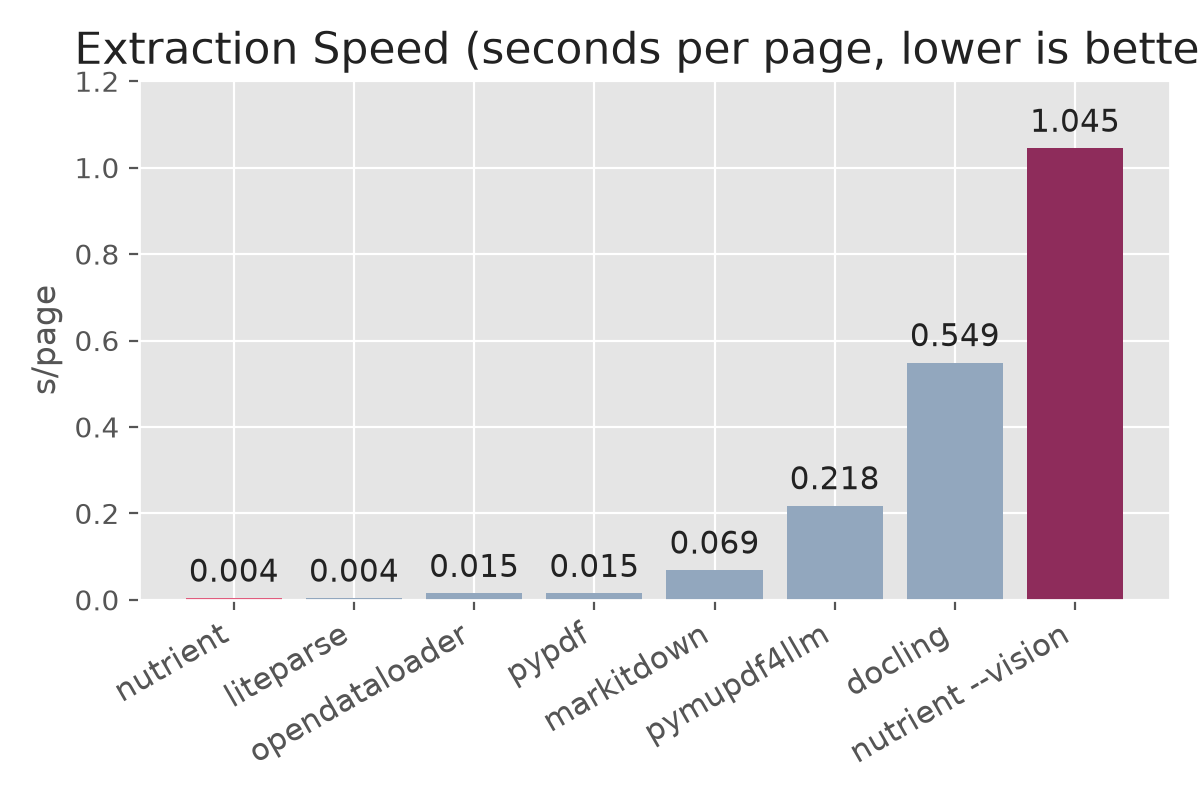
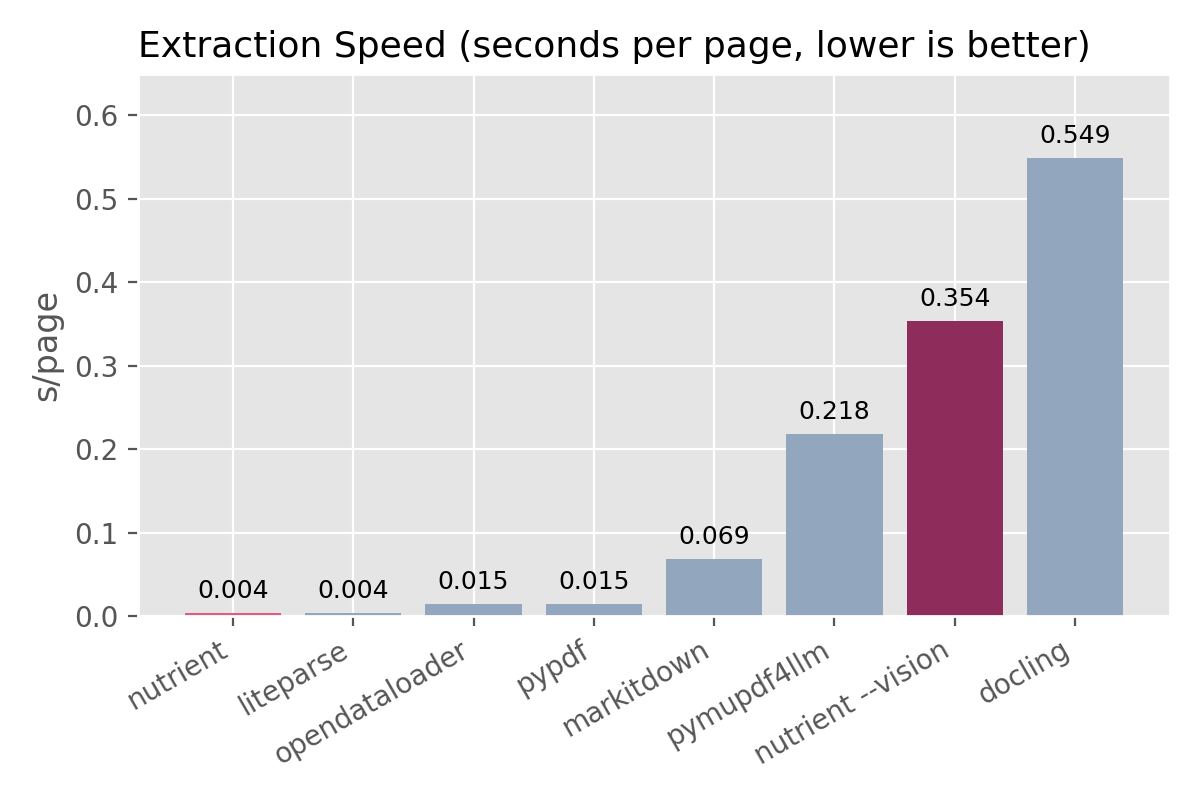
docs: vision benchmarks re-run on nutrient 1.3.1 — 0.354 s/page, now faster than docling
The 1.3.1 CDN build (race-condition fix + speed work) cut the vision
arm from 1.045 to 0.354 s/page in the same harness on the same M3 Ultra,
with accuracy identical to four decimals. Updated the speed tables,
vision-tier prose, intro bullet, and the extraction-speed chart; noted
the batch-mode control (0.356 s/page — spawn overhead negligible).

Claude-Session: https://claude.ai/code/session_01LiZXkeEUvAs3kENZwXL1bP

diff --git a/README.md b/README.md
@@ -16,7 +16,7 @@ Fast, accurate Markdown from PDFs — locally, with no cleanup required. Built f
 
 - **How fast is it?** — 0.004s per page. 134x faster than docling, 53x faster than pymupdf4llm. ([benchmarks](#benchmarks))
 - **How accurate is it?** — 0.93 reading order (best in class), 0.89 overall extraction accuracy, 0.82 heading detection. ([benchmarks](#benchmarks))
-- **NEW: `--vision` tier** — a licensed machine-vision ICR pipeline that tops every accuracy metric, including tables (0.94 TEDS), and handles scanned and handwritten documents. ([benchmarks](#benchmarks))
+- **NEW: `--vision` tier** — a licensed machine-vision ICR pipeline that tops every accuracy metric, including tables (0.94 TEDS), handles scanned and handwritten documents — and still runs faster than docling (0.35s per page). ([benchmarks](#benchmarks))
 - **Three tools, one binary** — `pdf-to-markdown` for structured Markdown, `pdf-to-text` for layout-preserving plain text, and `query` for ranked search over an extracted file. Pick by what the downstream consumer needs. ([the Nutrient document CLI](#the-nutrient-document-cli))
 - **NEW: Image export** — `--enable-image-export` extracts images alongside Markdown for vision-capable LLMs. ([usage](#image-export))
 - **Where do my PDFs go?** — Nowhere. The CLI runs locally. Your documents are not uploaded to Nutrient. ([trust & licensing](#trust-and-licensing))
@@ -194,7 +194,7 @@ Benchmark results from 200 PDF documents with hand-annotated Markdown ground tru
 
 ![Heading level](https://raw.githubusercontent.com/PSPDFKit/pdf-to-markdown/main/docs/assets/heading-level.png?v=20260706)
 
-![Extraction speed](https://raw.githubusercontent.com/PSPDFKit/pdf-to-markdown/main/docs/assets/extraction-speed.png?v=20260706)
+![Extraction speed](https://raw.githubusercontent.com/PSPDFKit/pdf-to-markdown/main/docs/assets/extraction-speed.png?v=20260707)
 
 ![Faster with Nutrient](https://raw.githubusercontent.com/PSPDFKit/pdf-to-markdown/main/docs/assets/faster-with-nutrient.png?v=20260706)
 
@@ -202,7 +202,7 @@ Benchmark results from 200 PDF documents with hand-annotated Markdown ground tru
 
 | Solution | Version | Overall | Reading Order (NID) | Table Structure (TEDS) | Heading Level (MHS) |
 | --- | --- | ---: | ---: | ---: | ---: |
-| **Nutrient `--vision`** † | 1.3.0 | **0.93** | **0.96** | **0.94** | **0.87** |
+| **Nutrient `--vision`** † | 1.3.1 | **0.93** | **0.96** | **0.94** | **0.87** |
 | **Nutrient** | 1.3.0 | 0.89 | 0.93 | 0.74 | 0.82 |
 | docling | 2.110.0 | 0.89 | 0.91 | 0.93 | 0.83 |
 | pymupdf4llm | 1.28.0 | 0.86 | 0.90 | 0.73 | 0.78 |
@@ -211,7 +211,7 @@ Benchmark results from 200 PDF documents with hand-annotated Markdown ground tru
 | pypdf | 6.14.2 | 0.58 | 0.87 | 0.00 | 0.00 |
 | liteparse | 2.4.1 | 0.57 | 0.86 | 0.00 | 0.00 |
 
-Among the default (non-vision) engines: Nutrient has the best reading order; docling 2.110 has the best table structure and a hair's-width overall edge at the third decimal (0.892 vs 0.889) — at 134× the runtime. The `--vision` tier tops every metric outright, including tables. The `opendataloader-hybrid` variant was not re-run (it requires a separate docling backend service); its last published numbers were 0.87 overall.
+Among the default (non-vision) engines: Nutrient has the best reading order; docling 2.110 has the best table structure and a hair's-width overall edge at the third decimal (0.892 vs 0.889) — at 134× the runtime. The `--vision` tier tops every metric outright, including tables — while running faster than docling. The `opendataloader-hybrid` variant was not re-run (it requires a separate docling backend service); its last published numbers were 0.87 overall.
 
 ### Speed
 
@@ -223,8 +223,8 @@ Among the default (non-vision) engines: Nutrient has the best reading order; doc
 | pypdf | 0.015 |
 | markitdown | 0.069 |
 | pymupdf4llm | 0.218 |
+| Nutrient `--vision` † | 0.354 |
 | docling | 0.549 |
-| Nutrient `--vision` † | 1.045 |
 
 Nutrient and liteparse run batch-parallel; the other engines process sequentially in-process. Nutrient is the fastest structure-preserving parser by a wide margin — only liteparse (which preserves no table/heading structure) matches its throughput.
 
@@ -238,7 +238,7 @@ Nutrient and liteparse run batch-parallel; the other engines process sequentiall
 
 ### The `--vision` tier
 
-† Nutrient 1.3.0 adds a machine-vision ICR pipeline behind the `--vision` flag: layout analysis, table reconstruction, formulas, and handwriting, running locally with GPU-hybrid inference (`--provider auto`; falls back to CPU). In this benchmark it tops **every** accuracy metric — including table structure, where it beats docling outright — at 1.05 s/page on CPU-class hardware.
+† Nutrient 1.3.0 added a machine-vision ICR pipeline behind the `--vision` flag: layout analysis, table reconstruction, formulas, and handwriting, running locally with GPU-hybrid inference (`--provider auto`; falls back to CPU). In this benchmark (1.3.1) it tops **every** accuracy metric — including table structure, where it beats docling outright — and at 0.35 s/page it is also faster than docling. There is no speed-for-accuracy trade against the open-source field.
 
 The first `--vision` run downloads the vision models (several hundred MB, cached locally afterward). Vision is a **licensed** capability: it requires a license key (`--license-key`) and is not part of the free tier. The default engine above remains free for up to 1,000 documents per calendar month. Contact `[email redacted]` for a vision license.
 

diff --git a/docs/benchmarks.md b/docs/benchmarks.md
@@ -2,19 +2,19 @@
 
 Evaluated on 200 PDF documents with hand-annotated Markdown ground truth from the DP-Bench corpus.
 
-- Benchmark date: `2026-07-06`
+- Benchmark date: `2026-07-06` (vision arm re-run `2026-07-07` on nutrient 1.3.1)
 - Corpus: 200 documents with ground-truth Markdown annotations (42 with tables, 107 with headings)
 - Hardware: Apple M3 Ultra (no discrete GPU)
 - Metrics: NID (reading order), TEDS (table structure), MHS (heading hierarchy)
 - All scores normalized to [0, 1] — higher is better
 - All competitor libraries pinned to their latest versions as of the benchmark date
-- Nutrient `--vision` is the licensed machine-vision ICR tier of the same 1.3.0 binary (`--provider auto`)
+- Nutrient `--vision` is the licensed machine-vision ICR tier of the same binary (`--provider auto`); its numbers below are from the 1.3.1 build, which is ~3× faster than 1.3.0 (1.045 → 0.354 s/page) with accuracy identical to four decimals
 
 ## Accuracy Metrics
 
 | Solution | Version | Extraction accuracy | Reading order (NID) | Table structure (TEDS) | Heading level (MHS) |
 | --- | --- | ---: | ---: | ---: | ---: |
-| **Nutrient `--vision`** | 1.3.0 | **0.933** | **0.959** | **0.938** | **0.868** |
+| **Nutrient `--vision`** | 1.3.1 | **0.933** | **0.959** | **0.938** | **0.868** |
 | docling | 2.110.0 | 0.892 | 0.905 | 0.933 | 0.829 |
 | **Nutrient** | 1.3.0 | 0.889 | 0.926 | 0.739 | 0.824 |
 | pymupdf4llm | 1.28.0 | 0.859 | 0.902 | 0.731 | 0.777 |
@@ -35,10 +35,10 @@ Evaluated on 200 PDF documents with hand-annotated Markdown ground truth from th
 | pypdf | 0.015 |
 | markitdown | 0.069 |
 | pymupdf4llm | 0.218 |
+| Nutrient `--vision` | 0.354 |
 | docling | 0.549 |
-| Nutrient `--vision` | 1.045 |
 
-Nutrient and liteparse convert batch-parallel; the other engines run sequentially in-process. Timing is wall-clock over the whole corpus on the hardware above.
+Nutrient and liteparse convert batch-parallel; the other engines run sequentially in-process. Timing is wall-clock over the whole corpus on the hardware above. The `--vision` timing is per-document invocation; a single batch invocation over all 200 documents times the same (0.356 s/page), so process startup and model initialization are negligible once the models are cached.
 
 ## Relative Speed Callouts (default engine)
 
@@ -50,4 +50,4 @@ Nutrient and liteparse convert batch-parallel; the other engines run sequentiall
 
 ## Reproduction
 
-Run on the private `PSPDFKit-labs/opendataloader-bench` harness (branch `benchmark-update-with-new-parsers`): `uv run src/pdf_parser.py --engine <name>` then `uv run src/evaluator.py --engine <name>`. The vision arm uses the `nutrient-vision-cli` engine (requires a vision license key).
+Run on the private `PSPDFKit-labs/opendataloader-bench` harness (branch `benchmark-update-with-new-parsers`): `uv run src/pdf_parser.py --engine <name>` then `uv run src/evaluator.py --engine <name>`. The vision arm uses the `nutrient-vision-cli` engine with the 1.3.1 CDN binary (requires a vision license key).